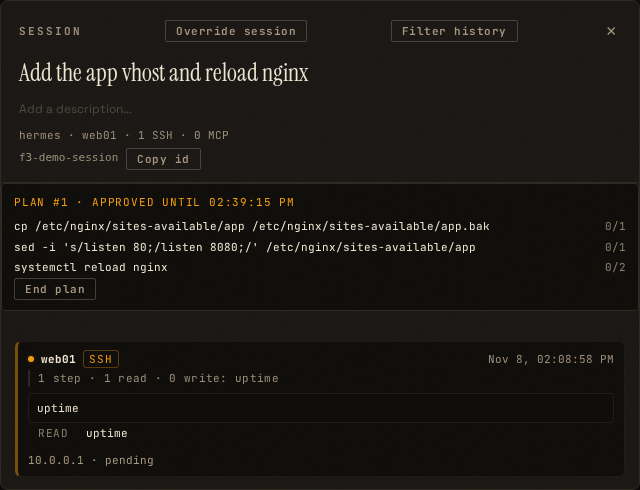
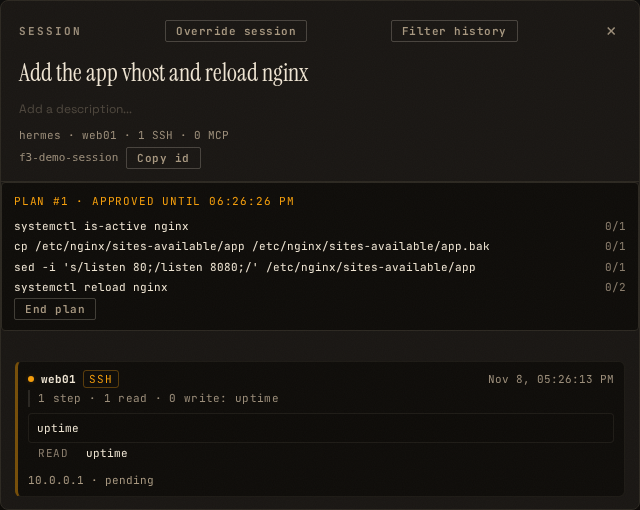
docs(features): add F3 round-3 security notes and refresh the Plans screenshot
Each SR item with its test and the 1767-passed gate line; the card screenshot
now shows the strict-sessions line and the highlighted broad items.

diff --git a/docs/features/FEATURE_PLAN.md b/docs/features/FEATURE_PLAN.md
@@ -1231,6 +1231,52 @@ the full gate:
 and the session goal next to the plan number:
 ![Plans card](../screenshots/f3/plans-card-desktop.png)
 
+### Round 3 — security items (SR1–SR4)
+
+The security reviewer approved F3 on `de741ec`, conditional on SR1; SR2–SR4
+are done as well.
+
+* **SR1 — truly byte-exact matching.** `claim_plan_item` no longer strips the
+  request command (the gateway already trims; the old `str.strip()` also
+  removed `\x1f`, `\x85`, `\xa0`, `\u2028`, …), and `validate_items`
+  refuses any command containing a C0 control (tab excepted), DEL or
+  non-ASCII whitespace — checked on the **raw** text, because `strip()` itself
+  would have hidden `\x1c`/`\xa0` before the check. Tests:
+  `test_f3_sr1_item_does_not_match_control_bytes` (an item `echo ok` does not
+  match `echo ok\x1f`, `\x1cecho ok`, `echo ok\u00a0`; it still matches
+  exactly `echo ok`) and `test_f3_sr1_proposal_refuses_hidden_characters`
+  (those bytes, DEL and `\n` are refused with `invalid_command`; plain space
+  and tab are accepted).
+* **SR2 — ownership fails closed.** Both tools now compare
+  `owner != current_agent_name()` without the `owner and` guard, so an empty
+  owner (or an anonymous caller) is never "yours". Tests:
+  `test_f3_sr2_anonymous_caller_is_refused` (no agent context, both tools) and
+  `test_f3_sr2_session_without_owner_is_refused`.
+* **SR3 — the warning sits where the decision is made.** The plan payload
+  carries `strict_sessions` (`require_sessions_enabled()`), and the card shows
+  "Strict sessions are off — anyone with the gateway SSH key who knows this
+  session id can use this plan." when it is off. AGENT_MANUAL now recommends
+  enabling strict sessions before relying on plans. Tests:
+  `test_f3_sr3_api_reports_whether_strict_sessions_are_on` and the harness
+  test `test_f3_sr3_strict_sessions_hint_in_the_card`.
+* **SR4 — broad items stand out.** An item with `host: "*"` or
+  `max_uses > 1` is rendered with `plan-item-broad`, an amber host label and
+  an amber uses count (the two ways an item grants more than one exact run on
+  one host). Harness test: `test_f3_sr4_broad_items_are_highlighted`
+  (two of three items highlighted; a single-use exact item is not).
+
+The Plans screenshot was refreshed: it shows the strict-sessions line, the
+`any host` item and the `×2` item both highlighted, next to the agent and
+session goal.
+
+Full gate:
+
+```
+1767 passed, 7 warnings in 351.50s (0:05:51)
+```
+
+(1760 before this round + 7 new security tests.)
+
 ### Reviewer notes
 
 **Round 1 (2026-11-08): changes requested.** 105 targeted tests pass locally
